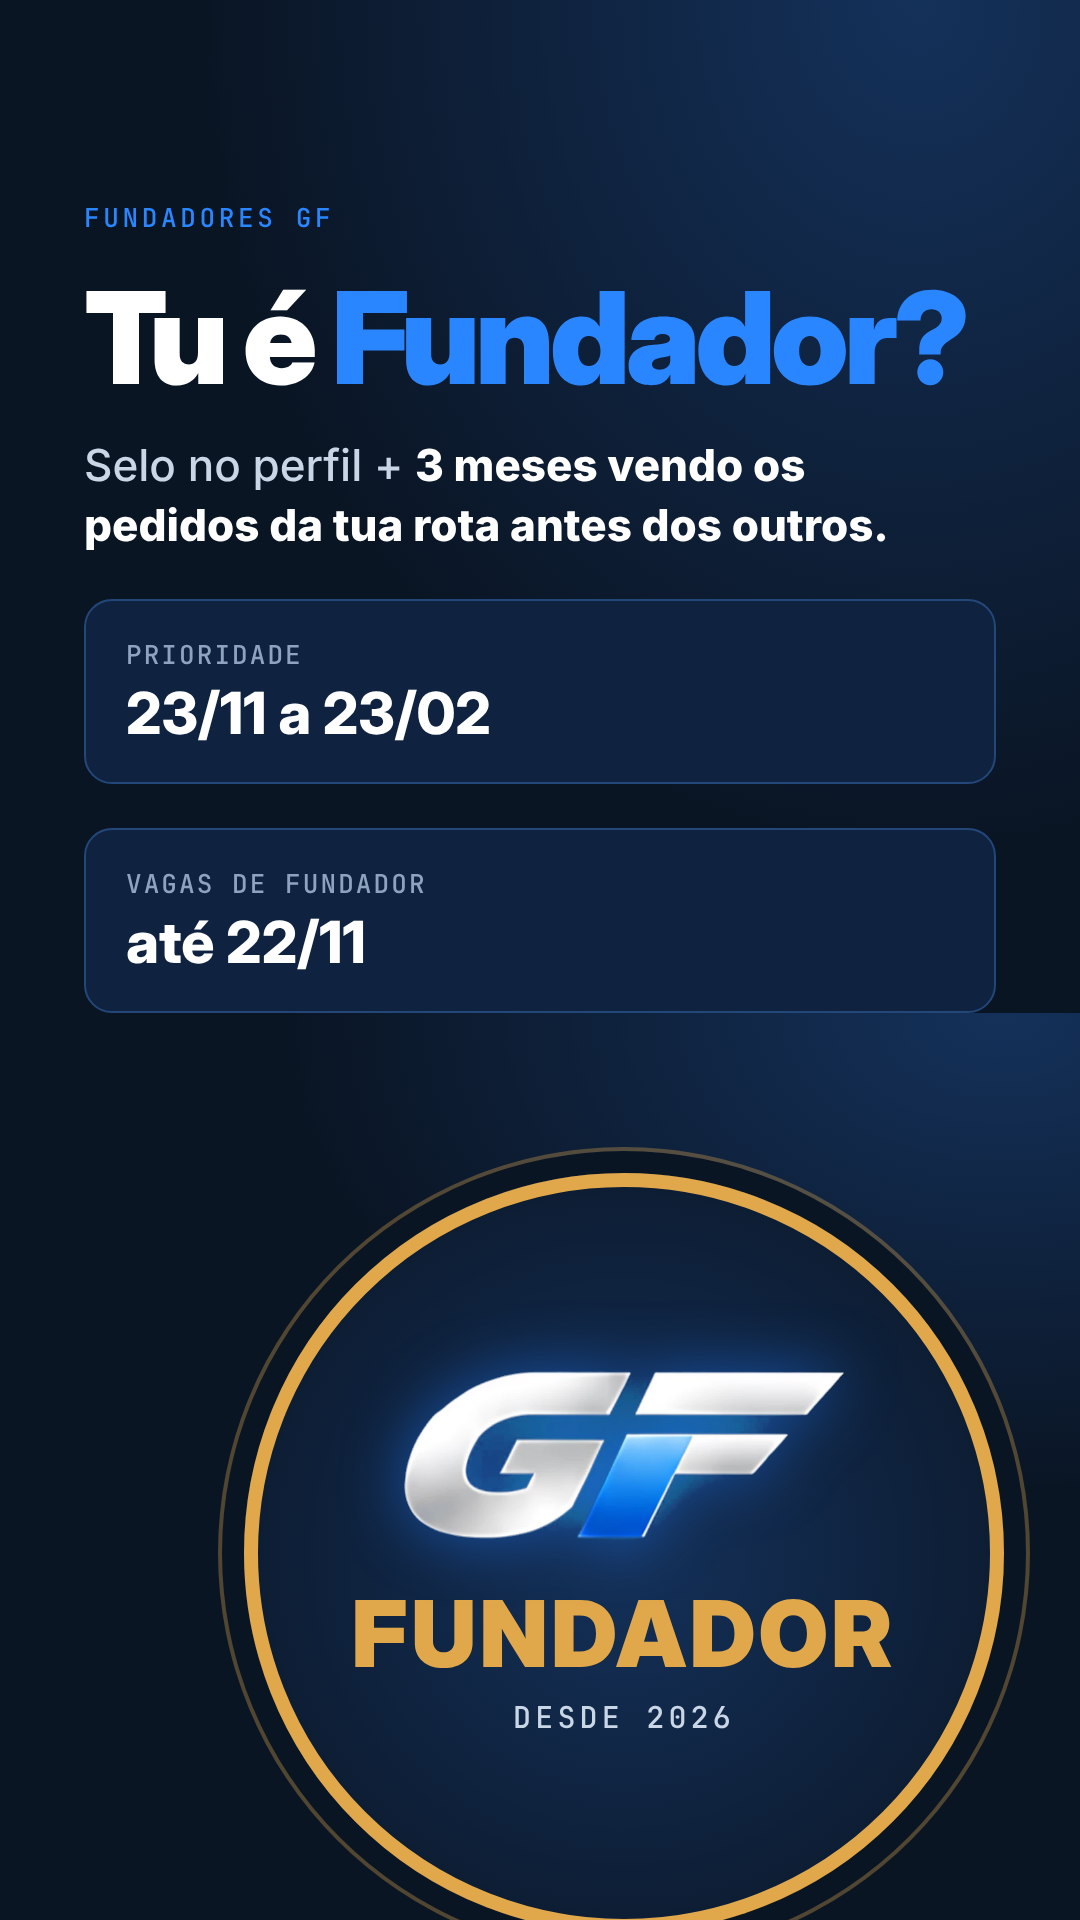
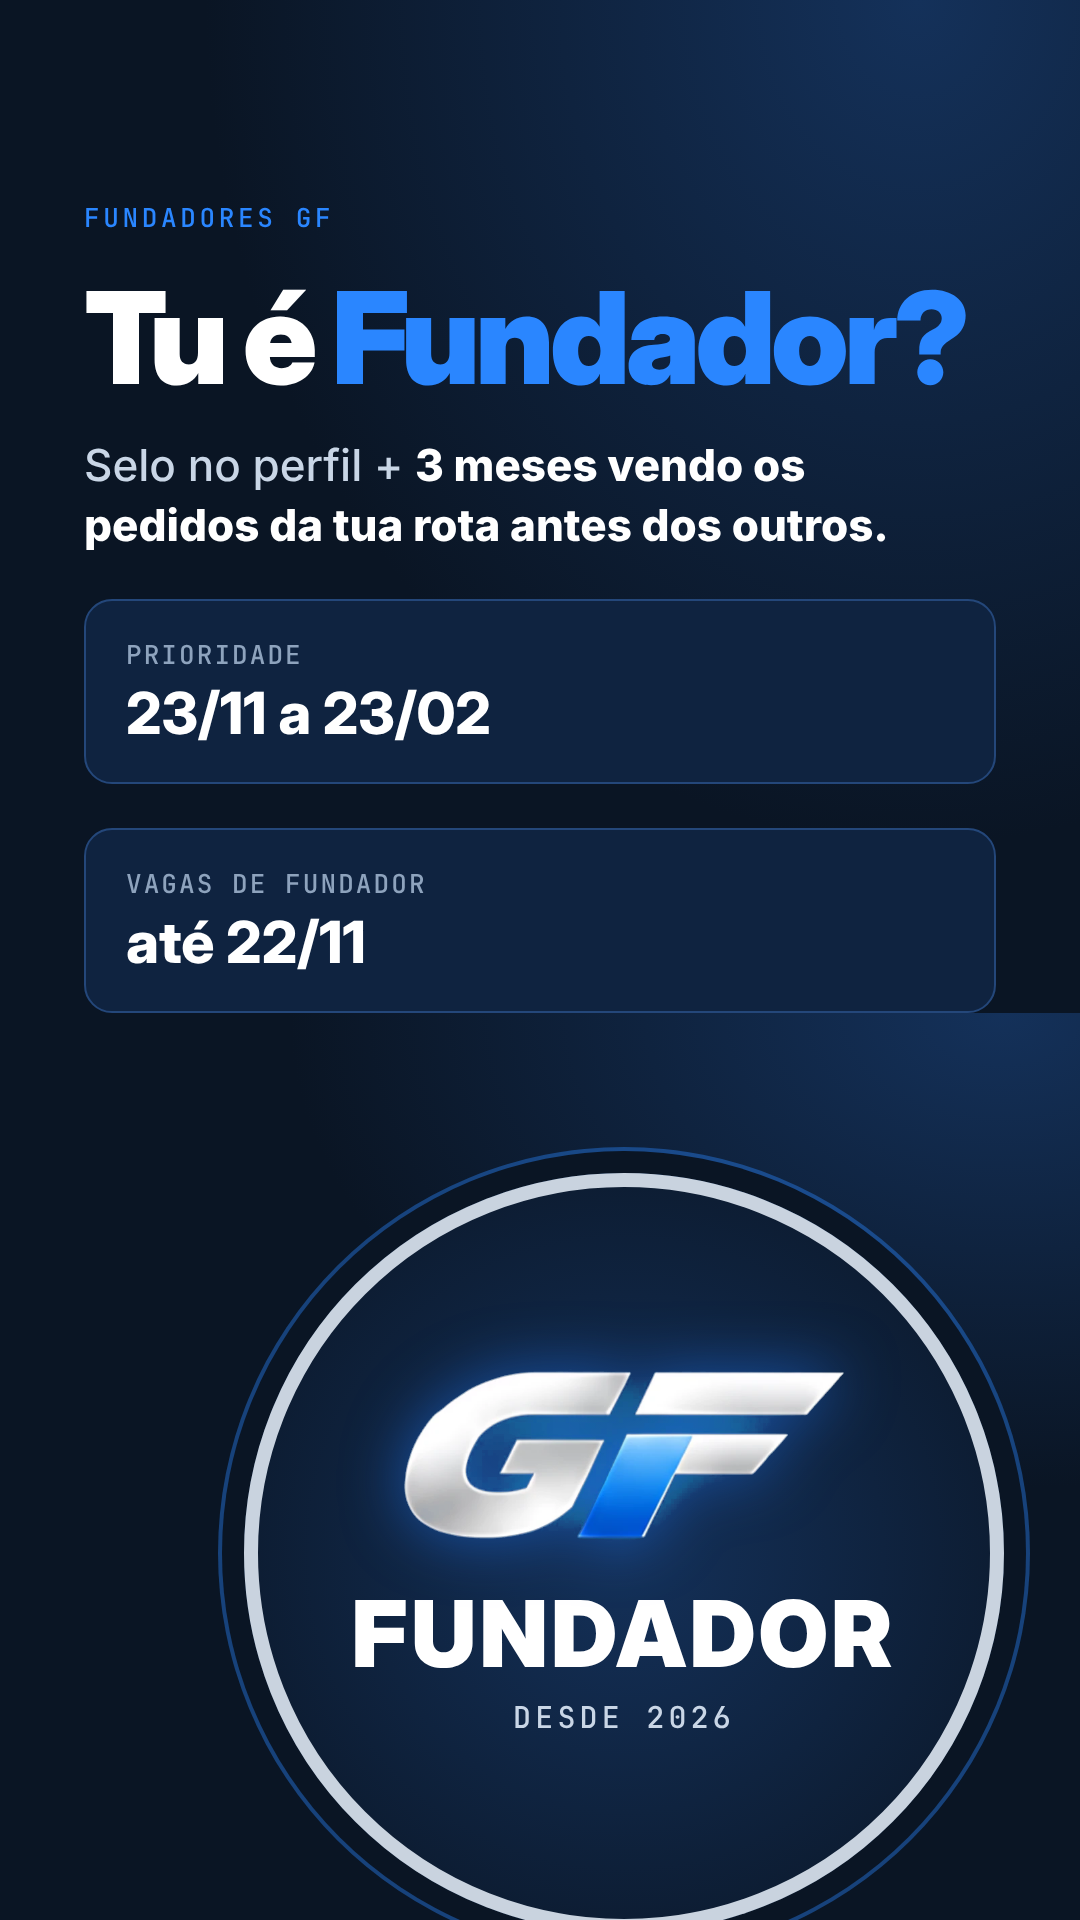
Remove gold from GF art palette
Claude-Session: https://claude.ai/code/session_019ynR5GfJeCsqWeiqbbuFrU

Changed region(s): [[0.4583, 0.5938, 0.9778, 1.0], [0.3056, 0.8125, 0.825, 0.875], [0.1833, 0.625, 0.5194, 1.0]]

diff --git a/gf-designs/src/artes.html b/gf-designs/src/artes.html
@@ -8,7 +8,7 @@ body{background:#222;padding:20px;display:flex;flex-direction:column;gap:20px;fo
 .story .count{top:200px}
 h1{font:900 128px/0.98 "Inter Display";letter-spacing:-.035em;margin-top:40px}
 h1.m{font-size:104px}h1.s{font-size:84px}
-.blue{color:#2a86ff}.gold{color:#e0a84a}
+.blue{color:#2a86ff}.gold{color:#2a86ff}
 .p{font:500 44px/1.35 Inter;color:#c9d6e6;margin-top:36px;max-width:880px}
 .p b{color:#fff;font-weight:800}
 .q{font:800 64px/1.1 "Inter Display";letter-spacing:-.02em;margin-top:56px}
@@ -16,7 +16,7 @@ h1.m{font-size:104px}h1.s{font-size:84px}
 .list{margin-top:48px;display:flex;flex-direction:column;gap:26px}
 .li{display:flex;gap:26px;align-items:flex-start;font:600 46px/1.25 Inter}
 .li i{flex:none;width:58px;height:58px;border-radius:16px;background:#2a86ff;color:#0a1524;font:900 32px/58px "Inter Display";text-align:center;font-style:normal}
-.road{position:absolute;left:0;right:0;bottom:190px;height:10px;background:repeating-linear-gradient(90deg,#e0a84a 0 90px,transparent 90px 150px);opacity:.85}
+.road{position:absolute;left:0;right:0;bottom:190px;height:10px;background:repeating-linear-gradient(90deg,#dfe6ef 0 90px,transparent 90px 150px);opacity:.55}
 .story .road{bottom:260px}
 .foot{position:absolute;left:84px;right:84px;bottom:70px;display:flex;justify-content:space-between;align-items:center}
 .story .foot{bottom:120px}
@@ -30,9 +30,9 @@ h1.m{font-size:104px}h1.s{font-size:84px}
 .card .t{font:600 26px "JetBrains Mono";color:#8ea3bd;letter-spacing:.08em;text-transform:uppercase}
 .card .r{font:800 58px/1.1 "Inter Display";margin-top:10px}
 .swipe{position:absolute;right:84px;bottom:210px;font:700 34px Inter;color:#2a86ff}
-.badge{width:760px;height:760px;border-radius:50%;margin:70px auto 0;border:14px solid #e0a84a;display:flex;flex-direction:column;align-items:center;justify-content:center;background:radial-gradient(circle,#14315a,#0a1524);box-shadow:0 0 0 22px #0a1524,0 0 0 26px #e0a84a55}
+.badge{width:760px;height:760px;border-radius:50%;margin:70px auto 0;border:14px solid #c9d3df;display:flex;flex-direction:column;align-items:center;justify-content:center;background:radial-gradient(circle,#14315a,#0a1524);box-shadow:0 0 0 22px #0a1524,0 0 0 26px #2a86ff66}
 .badge .g{width:440px;filter:drop-shadow(0 0 30px #1f7bff88)}
-.badge .f{font:900 92px "Inter Display";letter-spacing:.04em;margin-top:36px;color:#e0a84a}
+.badge .f{font:900 92px "Inter Display";letter-spacing:.04em;margin-top:36px;color:#fff}
 .badge .d{font:600 30px "JetBrains Mono";color:#c9d6e6;letter-spacing:.14em;margin-top:8px}
 .sq{padding:0;display:flex;align-items:center;justify-content:center}
 .sq .badge{margin:0}

diff --git a/plano-gf.html b/plano-gf.html
@@ -5,7 +5,7 @@
 <meta name="viewport" content="width=device-width, initial-scale=1">
 <title>GF · Plano de conteúdo: ajustes, artes e pós-lançamento</title>
 <style>
-  :root{--bg:#0a1524;--card:#0f1f33;--line:#1d3350;--txt:#e6edf6;--mut:#8ea3bd;--blue:#3b9cff;--gold:#e0a84a;--green:#3fbf8a;--pink:#c58cff;--red:#ff8a5c}
+  :root{--bg:#0a1524;--card:#0f1f33;--line:#1d3350;--txt:#e6edf6;--mut:#8ea3bd;--blue:#3b9cff;--gold:#2a86ff;--green:#3fbf8a;--pink:#c58cff;--red:#ff8a5c}
   *{box-sizing:border-box}
   body{margin:0;background:var(--bg);color:var(--txt);font:15px/1.5 system-ui,-apple-system,Segoe UI,Roboto,sans-serif}
   .wrap{max-width:820px;margin:0 auto;padding:28px 18px 80px}

diff --git a/brand-profile.md b/brand-profile.md
@@ -81,7 +81,7 @@
 ## Padrões operacionais
 - **IA e mídia sintética:** imagem por IA só ilustrativa e identificada; nunca simular guincheiro, cliente, caminhão ou depoimento real; preferir sempre foto/vídeo real da estrada. [A CONFIRMAR]
 - **Acessibilidade:** legenda sempre ligada em vídeo; texto alternativo em toda imagem; contraste alto.
-- **Identidade visual:** logo GF prata com a haste do F em azul (arquivo: gf-designs/src/logo-gf.png, original com fundo de estrada: logo-gf-original.png). Azul do logo ≈ #0068DA (destaque nas artes #2A86FF), fundo azul-marinho #0A1524, faixa tracejada dourada #E0A84A como "estrada". Fontes: Inter Display (títulos), Inter (texto), JetBrains Mono (detalhes). Não redesenhar nem recolorir o logo.
+- **Identidade visual:** logo GF prata com a haste do F em azul (arquivo: gf-designs/src/logo-gf.png, original com fundo de estrada: logo-gf-original.png). Azul do logo ≈ #0068DA (destaque nas artes #2A86FF), fundo azul-marinho #0A1524, faixa tracejada branca/prata como "estrada". Sem dourado. Fontes: Inter Display (títulos), Inter (texto), JetBrains Mono (detalhes). Não redesenhar nem recolorir o logo.
 
 ## Limites
 - **Antecipação (financeiro):** sempre deixar claro que análise, taxa e pagamento são da JK Invest; "sujeito a aprovação"; taxa caso a caso, informada antes; nunca prometer aprovação nem taxa específica. [Revisar textos com a JK Invest antes de anúncios pagos]
